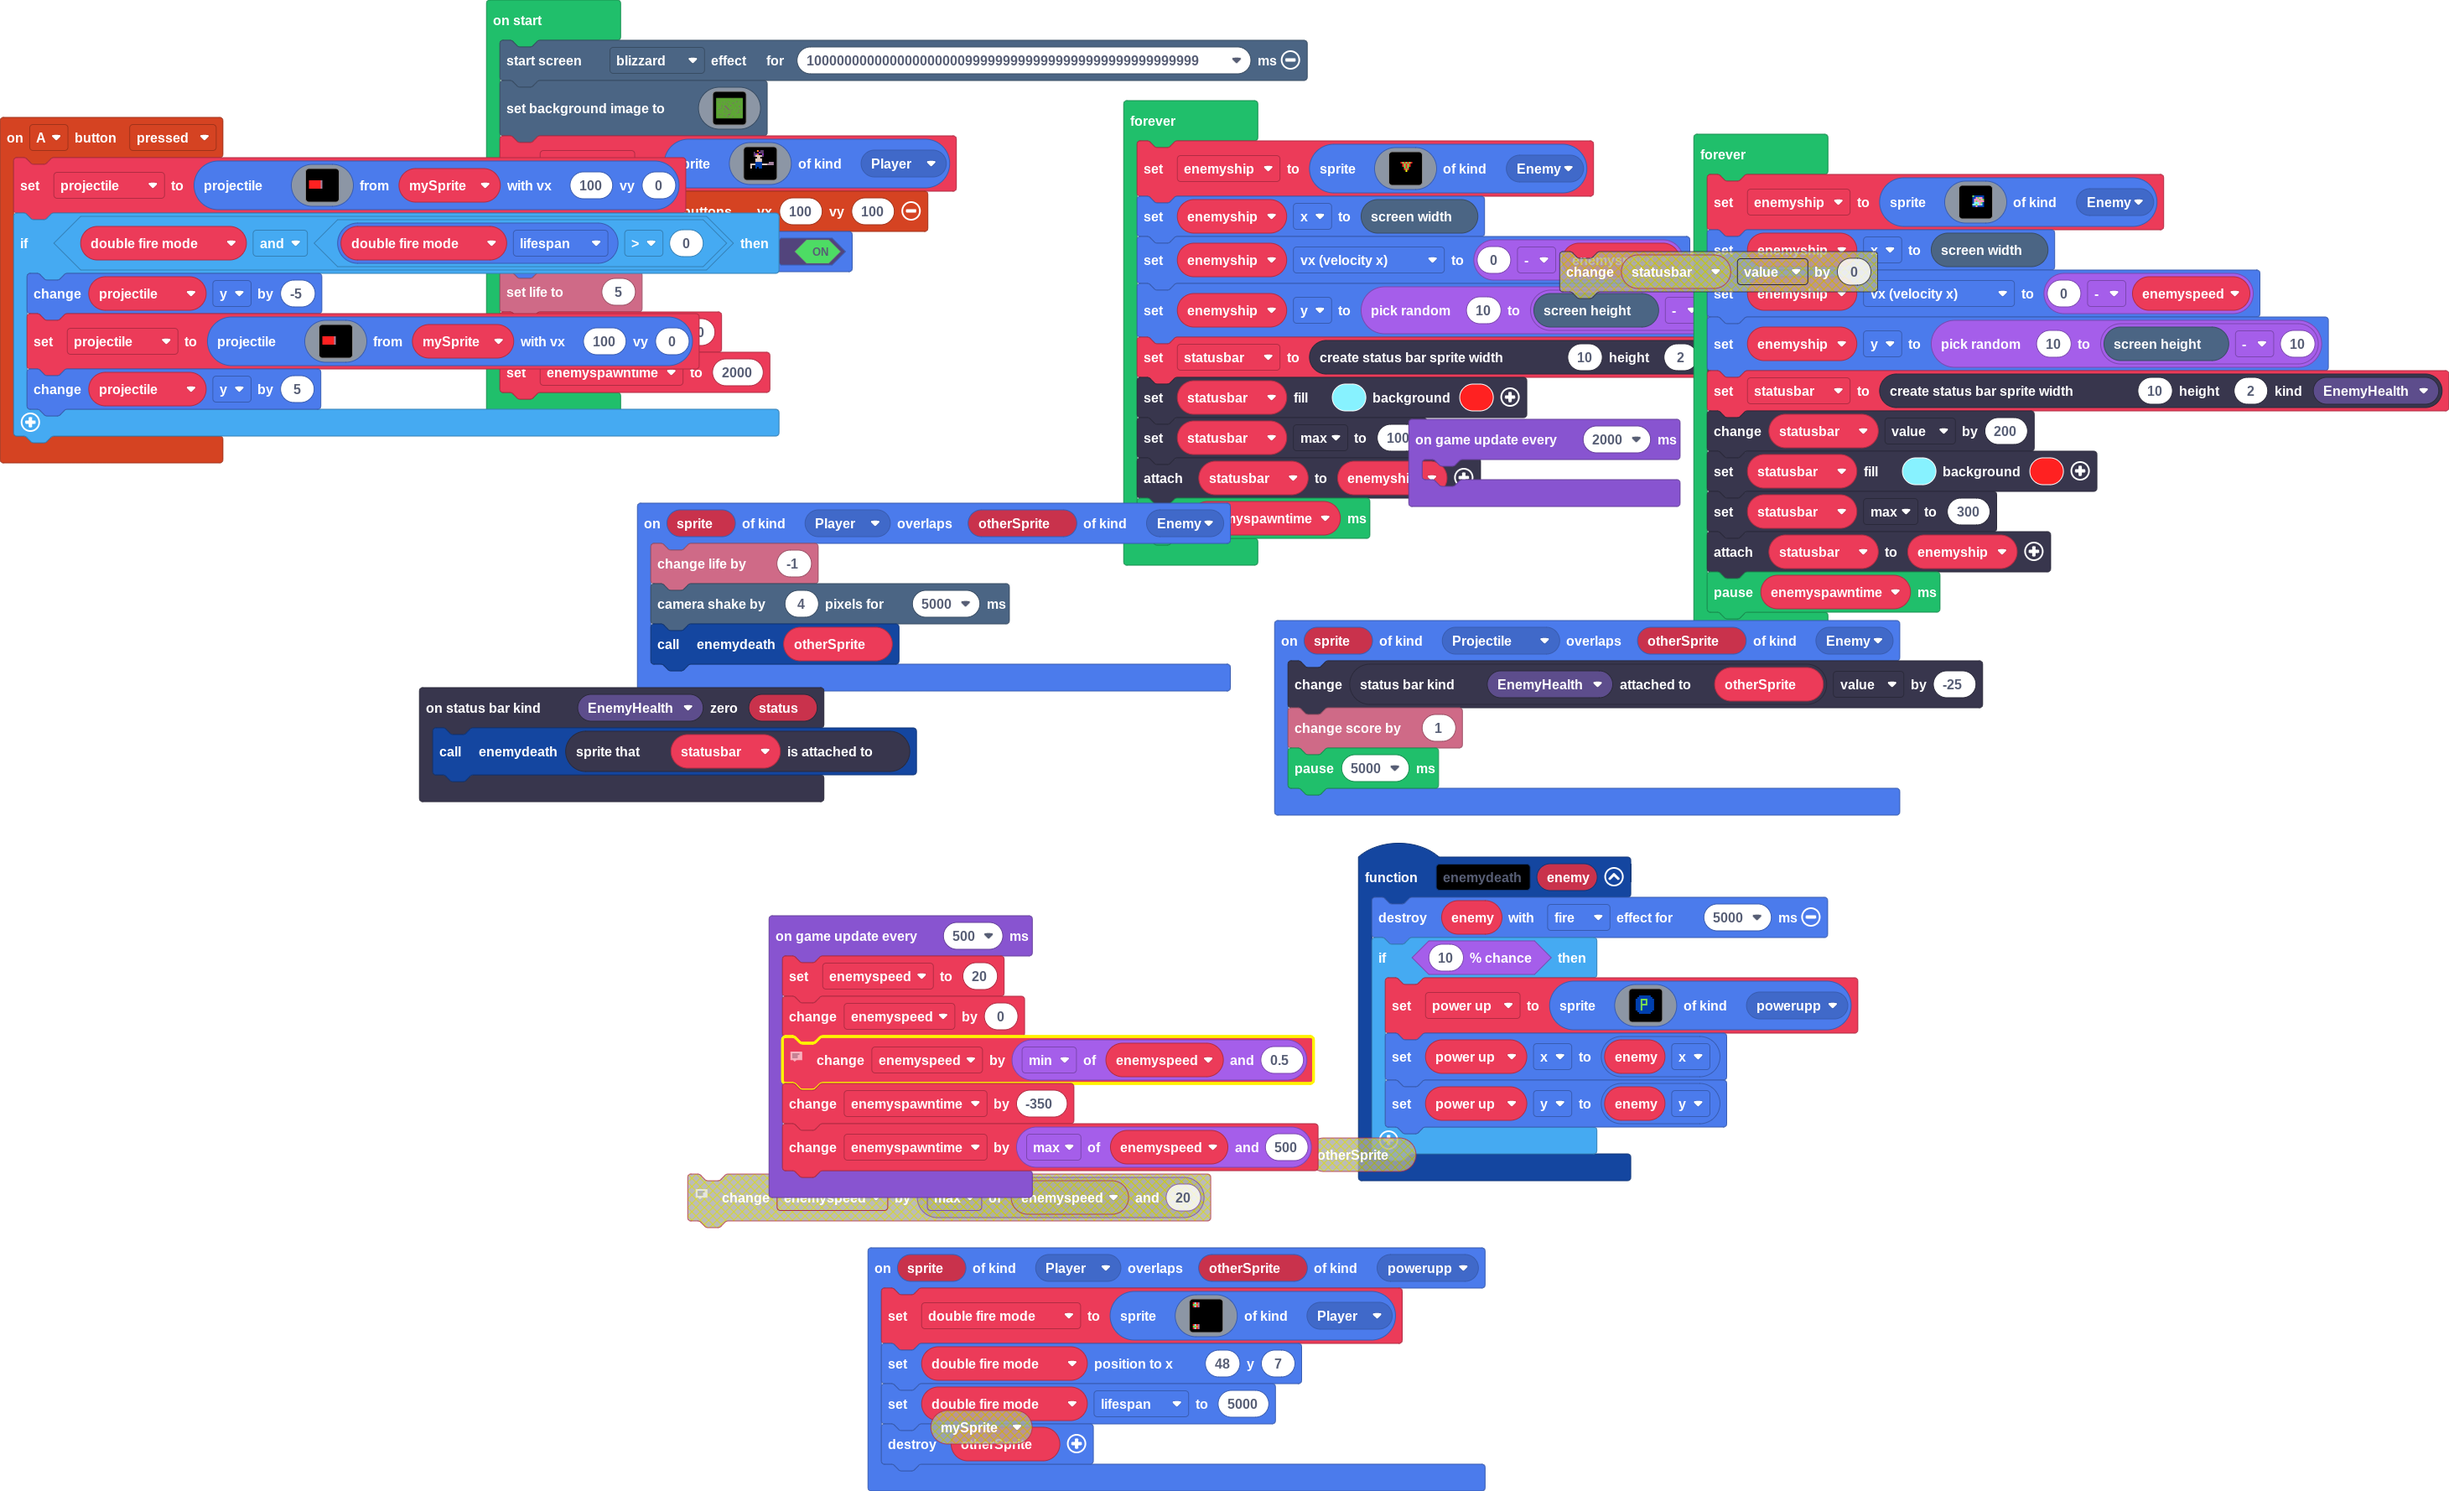
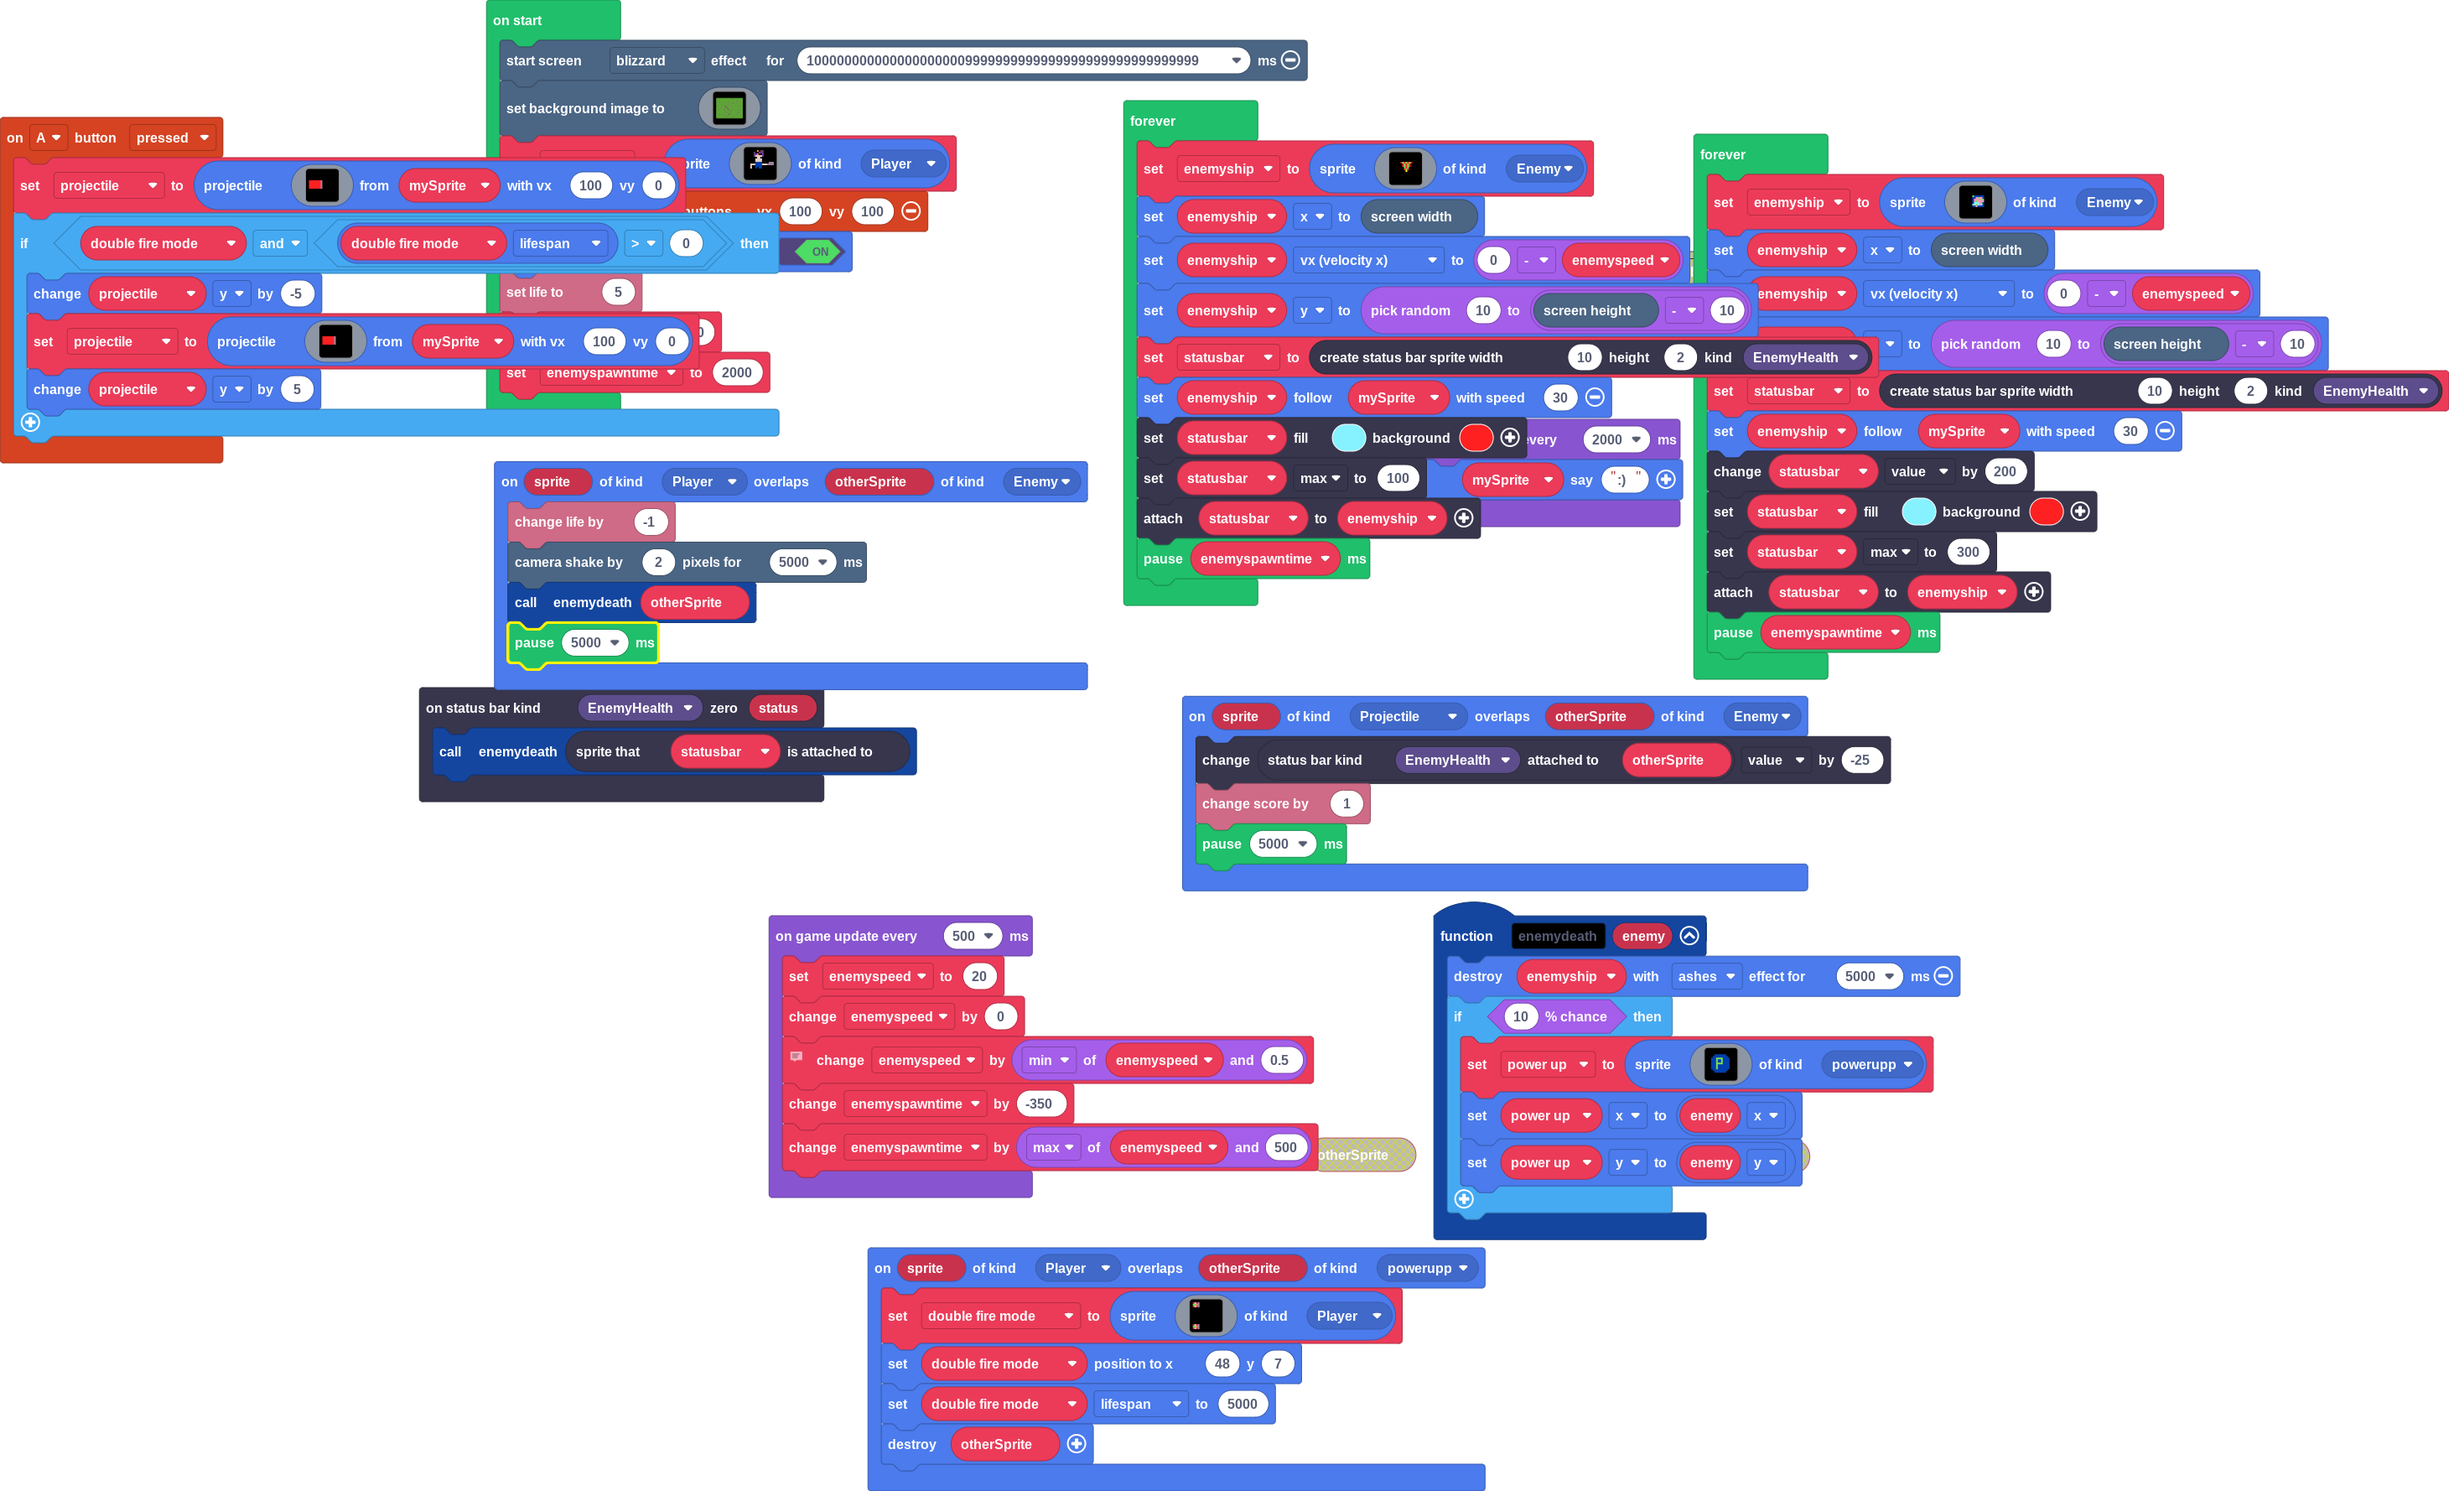
Update main.blocks, main.ts

Changed region(s): [[0.1869, 0.1547, 0.9035, 0.8352], [0.2804, 0.7733, 0.4985, 0.8352], [0.3738, 0.928, 0.4362, 0.9899]]

diff --git a/main.ts b/main.ts
@@ -77,7 +77,7 @@ sprites.onOverlap(SpriteKind.Projectile, SpriteKind.Enemy, function (sprite, oth
     pause(5000)
 })
 function enemydeath (enemy: Sprite) {
-    enemy.destroy(effects.fire, 5000)
+    enemyship.destroy(effects.ashes, 5000)
     if (Math.percentChance(10)) {
         power_up = sprites.create(img`
             . . . . . . . . . . . . . . . . 
@@ -103,11 +103,12 @@ function enemydeath (enemy: Sprite) {
 }
 sprites.onOverlap(SpriteKind.Player, SpriteKind.Enemy, function (sprite, otherSprite) {
     info.changeLifeBy(-1)
-    scene.cameraShake(4, 5000)
+    scene.cameraShake(2, 5000)
     enemydeath(otherSprite)
+    pause(5000)
 })
-let enemyship: Sprite = null
 let power_up: Sprite = null
+let enemyship: Sprite = null
 let statusbar: StatusBarSprite = null
 let projectile: Sprite = null
 let double_fire_mode: Sprite = null
@@ -259,7 +260,7 @@ info.setLife(5)
 let enemyspeed = 20
 let enemyspawntime = 2000
 game.onUpdateInterval(2000, function () {
-	
+    mySprite.sayText(":)")
 })
 forever(function () {
     enemyship = sprites.create(img`
@@ -284,6 +285,7 @@ forever(function () {
     enemyship.vx = 0 - enemyspeed
     enemyship.y = randint(10, scene.screenHeight() - 10)
     statusbar = statusbars.create(10, 2, StatusBarKind.EnemyHealth)
+    enemyship.follow(mySprite, 30)
     statusbar.setColor(9, 2)
     statusbar.max = 100
     statusbar.attachToSprite(enemyship)
@@ -312,6 +314,7 @@ forever(function () {
     enemyship.vx = 0 - enemyspeed
     enemyship.y = randint(10, scene.screenHeight() - 10)
     statusbar = statusbars.create(10, 2, StatusBarKind.EnemyHealth)
+    enemyship.follow(mySprite, 30)
     statusbar.value += 200
     statusbar.setColor(9, 2)
     statusbar.max = 300
